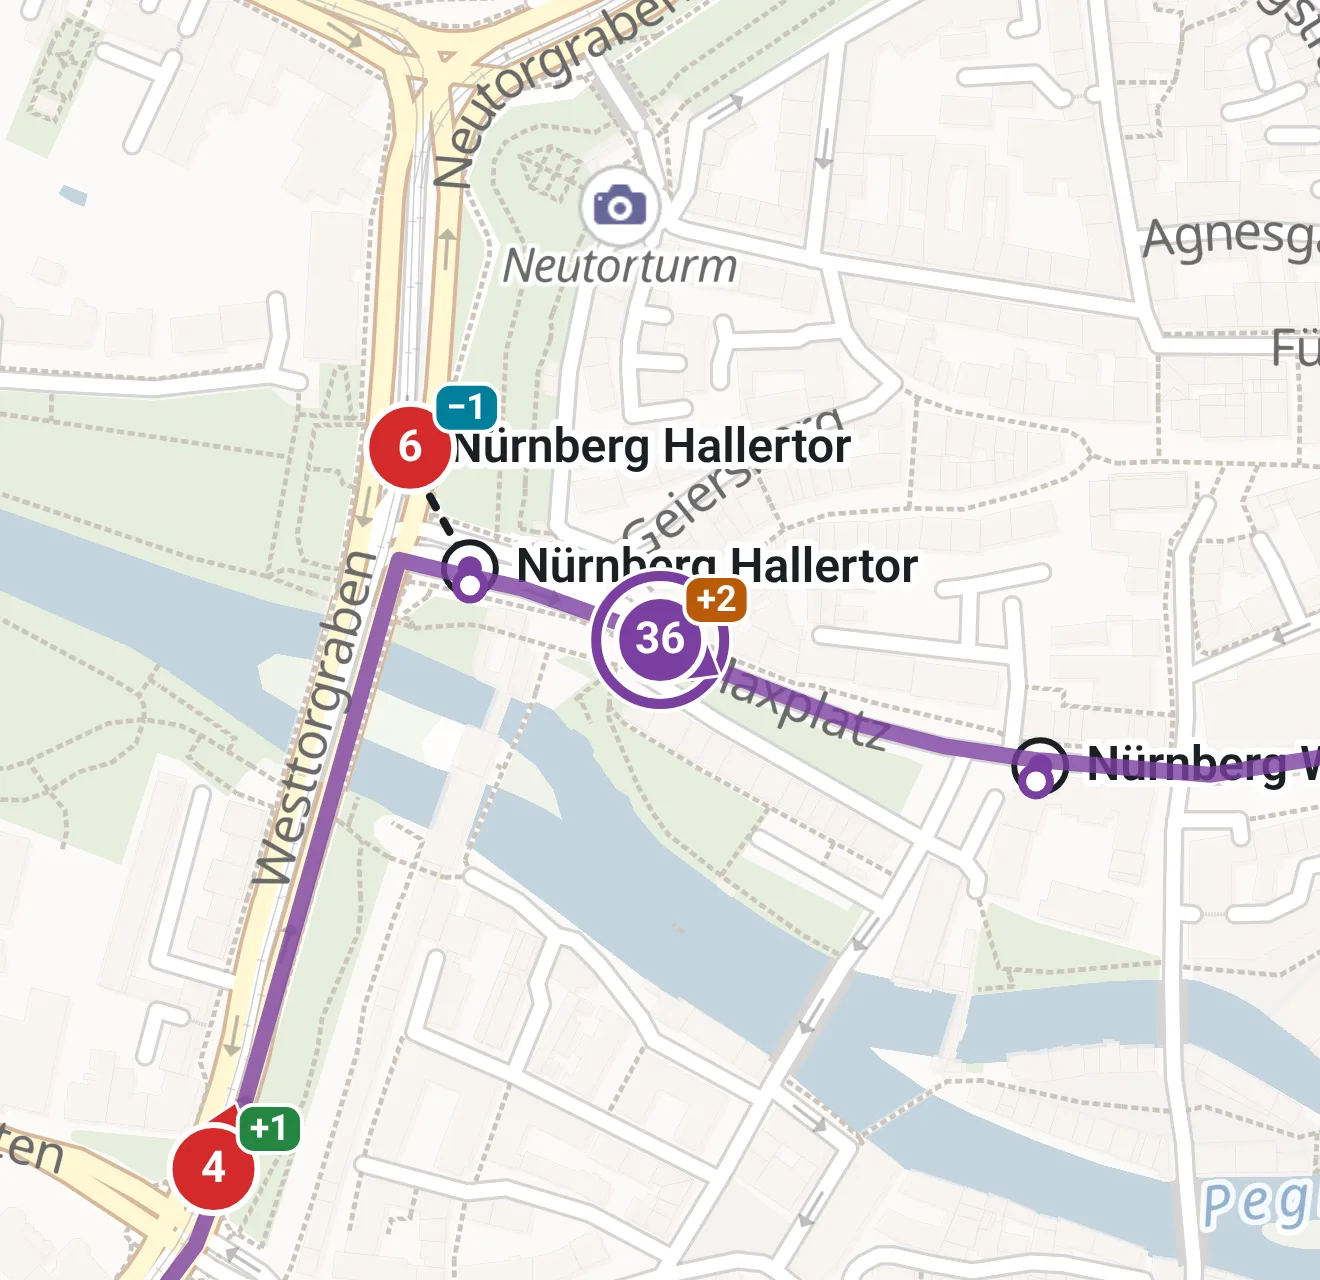
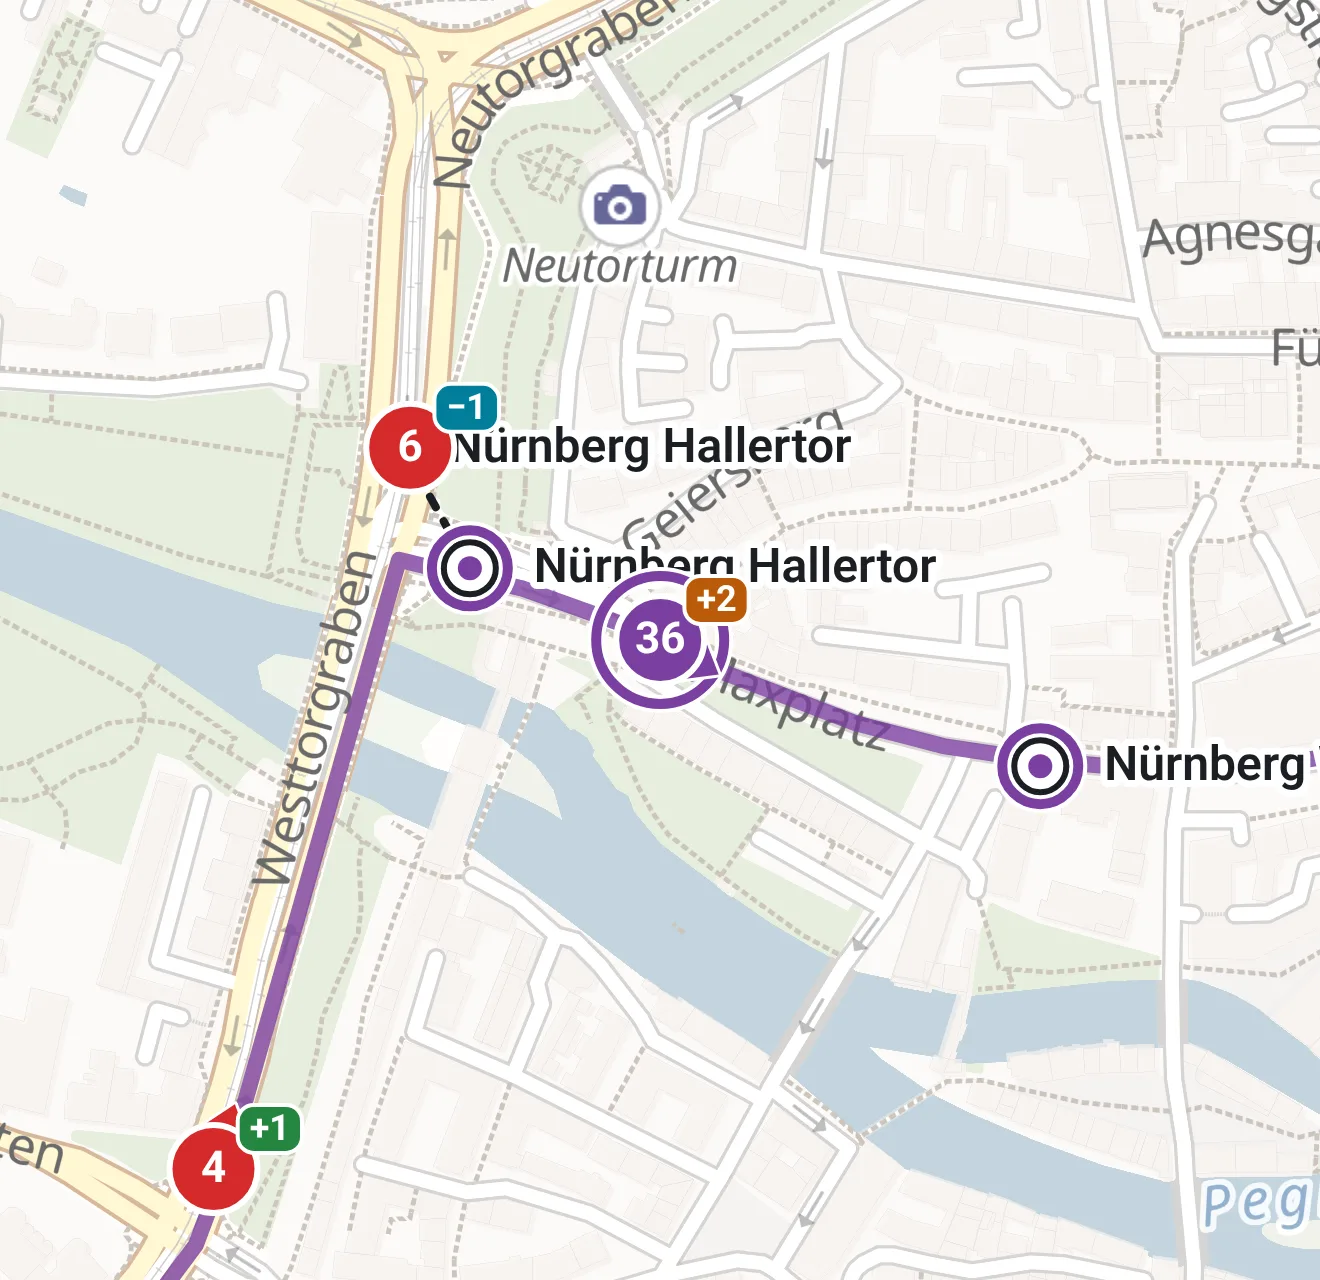
fix(page): the stops of a selected trip or line are the map's own marks, in a ring of its colour (#267)
The dots of a selected trip stood at its platforms and those of a line at
the points of its stations, while the map's mark of a station stands at
its point, and from zoom 15 at the middle of its platforms of a kind: a
median 21 m from the platform of a bus trip. So a stop was a dot beside
its mark, and where the two met, the dot covered the mark, as the route
was drawn after the stops and over their names.

The route now lies under the stops and their names. Each mark of a
station it calls at, the place of its mode, has a ring in the colour of
the mode (a heart its heart's ring); where the map shows no mark of the
station, a dot where the route stops, as before. A station the route
passes without stopping keeps its mark as it is. The README pictures are
taken again: they show the trip of a bus.

Changed region(s): [[0.3106, 0.4062, 0.7144, 0.5], [0.7455, 0.5625, 1.0, 0.6562]]

diff --git a/public/app.js b/public/app.js
@@ -90,6 +90,9 @@ const PLACE_R = 5; // the dot that marks such a place, under the bubble with the
 const RING_GAP = 5;
 const RING_WIDTH = 2.5;
 const RING_EDGE = 1;
+// The ring of a stop of the selected trip or line (routeRing): closer to its mark than that of an open stop. And the zoom from which its stops are shown.
+const ROUTE_RING_GAP = 3;
+const ROUTE_STOPS_ZOOM = 11;
 // The details as a sheet on a narrow screen: the share of the screen it takes
 // at its middle height (as .panel in style.css), how far a finger has to
 // move to drag and not to tap, how far below its lowest height the sheet
@@ -956,6 +959,54 @@ function stationShown(station, zoom) {
   return false;
 }
 
+/**
+ * The route the map draws for what is selected (#148): of a trip, its path
+ * and its stops at their platforms; of a line, the paths of its trips of the
+ * day and the stations they call at. Each stop has a key by which the
+ * stations of the map are told to be one of them (`calls`, `keyOf`): the id
+ * of its station, or for a line, whose route has the places of its stations
+ * alone, that place, as api/stations has it too. Null where nothing with a
+ * route is selected.
+ * @param selection state.selection
+ * @returns { paths, mode, stops: [{ lat, lon, key }], keyOf, calls } or null
+ */
+function routeShown(selection) {
+  let route = null;
+  if (selection?.type === 'trip' && selection.data) {
+    const { path, stops, mode } = selection.data;
+    route = { paths: [path], mode, stops: stops.map(({ lat, lon, station }) => ({ lat, lon, key: station })), keyOf: (station) => station.id };
+  } else if (selection?.type === 'line' && selection.route) {
+    const { paths, stations } = selection.route;
+    const keyOf = (station) => `${station.lat},${station.lon}`;
+    const stops = [];
+    for (let i = 0; i < stations.length; i += 2) stops.push({ lat: stations[i], lon: stations[i + 1], key: keyOf({ lat: stations[i], lon: stations[i + 1] }) });
+    route = { paths, mode: selection.line.mode, stops, keyOf };
+  }
+  if (!route) return null;
+  const keys = new Set(route.stops.map((stop) => stop.key));
+  return { ...route, calls: (station) => keys.has(route.keyOf(station)) };
+}
+
+/**
+ * The ring of the mark of a stop of the selected route: in the colour of its
+ * mode, ROUTE_RING_GAP out from the pill and with white edges, as the ring of
+ * an open stop has them; round a heart, the heart's own ring.
+ */
+function routeRing(mark, mode, big) {
+  if (mark.favourite) {
+    heartRing(mark.x, mark.y, [mode], big);
+    return;
+  }
+  const pill = stopMark(mark.kinds.length, big);
+  roundedBox(mark.x - pill.w / 2 - ROUTE_RING_GAP, mark.y - pill.h / 2 - ROUTE_RING_GAP, pill.w + 2 * ROUTE_RING_GAP, pill.h + 2 * ROUTE_RING_GAP, pill.corner + ROUTE_RING_GAP);
+  ctx.strokeStyle = '#fff';
+  ctx.lineWidth = RING_WIDTH + 2 * RING_EDGE;
+  ctx.stroke();
+  ctx.strokeStyle = colors.mode[mode] ?? colors.mode.other;
+  ctx.lineWidth = RING_WIDTH;
+  ctx.stroke();
+}
+
 function draw() {
   const time = now();
   // The time the markers glide by (ease, below). Where vehicles have just
@@ -1021,6 +1072,35 @@ function draw() {
   // (#245). Below ALL_STATIONS_ZOOM, where the map has no stops of its own,
   // it lies above the vehicles, which would hide it there (`lifted`, drawn
   // after them); from there with the other stops, under them.
+  // The route of the selected trip, or that of the selected line: where its
+  // trips of the day run (#148). Lines in the colour of the mode, one stroke
+  // for all, so that where they lie on each other they are no darker; under
+  // the stops and their names. Its stops are the marks of the stations it
+  // calls at, from zoom 11, each in a ring of its colour (routeRing): one
+  // mark for a stop, where a dot of its own would stand beside the mark –
+  // the platform of a trip is not where the mark of its station is, between
+  // its platforms – or on it. Where the map has no mark of the station, a dot
+  // where the route stops; a station it passes keeps its mark as it is.
+  const route = routeShown(selection);
+  if (route) {
+    ctx.beginPath();
+    for (const path of route.paths) {
+      for (let i = 0; i < path.length; i += 2) {
+        const [x, y] = project(path[i], path[i + 1]);
+        if (i) ctx.lineTo(x, y);
+        else ctx.moveTo(x, y);
+      }
+    }
+    ctx.lineJoin = 'round';
+    ctx.lineCap = 'round';
+    ctx.strokeStyle = colors.mode[route.mode] ?? colors.mode.other;
+    ctx.globalAlpha = 0.8;
+    ctx.lineWidth = 4;
+    ctx.stroke();
+    ctx.globalAlpha = 1;
+  }
+  const routeStops = route !== null && zoom >= ROUTE_STOPS_ZOOM;
+
   const big = zoom >= 15;
   const above = zoom < ALL_STATIONS_ZOOM;
   const shownFavourites = FIXED ? [] : favourites.stops; // (a screen on a wall shows what its address says)
@@ -1036,14 +1116,36 @@ function draw() {
     if (!parts.some(({ x, y }) => onScreen(x, y))) continue;
     drawn.add(station.id);
     for (const [a, b] of joiningLines(parts)) joins.push([parts[a], parts[b]]);
+    // (of a station the route calls at, the mark of the place of its mode: those of its other modes stay as they are)
+    const calledAt = routeStops && route.calls(station);
     for (const part of parts) {
       const hit = { x: part.x, y: part.y, r: STOP_HIT_PX, station };
       hits.push(hit);
-      marks.push({ x: part.x, y: part.y, kinds: part.modes, id: station.id, name: station.name, modes: station.modes, favourite, hit });
+      const ringed = calledAt && part.modes.includes(route.mode);
+      marks.push({ x: part.x, y: part.y, kinds: part.modes, id: station.id, name: station.name, modes: station.modes, favourite, hit, ...(ringed ? { ringed, key: route.keyOf(station), space: ROUTE_RING_GAP + RING_WIDTH + 4 } : {}) });
+    }
+  }
+  // (the dots where the route stops, of the stations whose mark is not on the map: under the marks of others)
+  if (routeStops) {
+    const marked = new Set(marks.filter((mark) => mark.ringed).map((mark) => mark.key));
+    ctx.lineWidth = 2;
+    ctx.strokeStyle = colors.mode[route.mode] ?? colors.mode.other;
+    for (const stop of route.stops) {
+      if (marked.has(stop.key)) continue;
+      const [x, y] = project(stop.lat, stop.lon);
+      if (!onScreen(x, y)) continue;
+      ctx.beginPath();
+      ctx.arc(x, y, 3.5, 0, 2 * Math.PI);
+      ctx.fillStyle = colors.bg;
+      ctx.fill();
+      ctx.stroke();
     }
   }
   drawJoins(joins);
-  for (const mark of marks) Object.assign(mark, (mark.favourite ? drawHeartStop : drawStop)(mark.x, mark.y, mark.kinds, big));
+  for (const mark of marks) {
+    if (mark.ringed) routeRing(mark, route.mode, big);
+    Object.assign(mark, (mark.favourite ? drawHeartStop : drawStop)(mark.x, mark.y, mark.kinds, big));
+  }
   // The station whose departures are open, at any zoom, and the further stops
   // of its board: on top of the others, each of their marks in a ring in the
   // colours of its kinds (kindsRing), as the chosen vehicle has one in its
@@ -1135,42 +1237,6 @@ function draw() {
       else for (const other of marks) if (other.id === mark.id && Math.abs(other.x - mark.x) < 4 && Math.abs(other.y - mark.y) < 4) other.hit.named = true;
     }
   }
-
-  // The route of the selected trip, or that of the selected line: where its
-  // trips of the day run (#148). Lines in the colour of the mode, one stroke
-  // for all, so that where they lie on each other they are no darker; from
-  // zoom 11 a dot at each stop.
-  const drawRoute = (paths, stops, mode) => {
-    ctx.beginPath();
-    for (const path of paths) {
-      for (let i = 0; i < path.length; i += 2) {
-        const [x, y] = project(path[i], path[i + 1]);
-        if (i) ctx.lineTo(x, y);
-        else ctx.moveTo(x, y);
-      }
-    }
-    ctx.lineJoin = 'round';
-    ctx.lineCap = 'round';
-    ctx.strokeStyle = colors.mode[mode] ?? colors.mode.other;
-    ctx.globalAlpha = 0.8;
-    ctx.lineWidth = 4;
-    ctx.stroke();
-    ctx.globalAlpha = 1;
-    if (zoom >= 11) {
-      ctx.lineWidth = 2;
-      for (let i = 0; i < stops.length; i += 2) {
-        const [x, y] = project(stops[i], stops[i + 1]);
-        if (!onScreen(x, y)) continue;
-        ctx.beginPath();
-        ctx.arc(x, y, 3.5, 0, 2 * Math.PI);
-        ctx.fillStyle = colors.bg;
-        ctx.fill();
-        ctx.stroke();
-      }
-    }
-  };
-  if (selection?.type === 'trip' && selection.data) drawRoute([selection.data.path], selection.data.stops.flatMap((stop) => [stop.lat, stop.lon]), selection.data.mode);
-  if (selection?.type === 'line' && selection.route) drawRoute(selection.route.paths, selection.route.stations, selection.line.mode);
 
   // While a line is looked at, its vehicles are the only ones, whatever the filters say.
   const only = selection?.type === 'line' ? selection.ids : null;

diff --git a/docs/architecture.md b/docs/architecture.md
@@ -610,12 +610,19 @@ otherwise a server would load a file written by older code:
 
 - **Map.** MapLibre GL JS draws the map with WebGL, from the vector tiles of
   the configured style or from raster tiles. Everything else is drawn by
-  `app.js` on one canvas lying on top: the veil outside the area, stations,
-  the route of the selected trip or line, the visitor's own position,
+  `app.js` on one canvas lying on top: the veil outside the area, the route
+  of the selected trip or line, stations, the visitor's own position,
   vehicles. The route of a line is where its trips of the day run, each
   stretch between two stops once
   ([#148](https://github.com/xiidoz/netnou/issues/148)): the page asks for it
   once, when it opens the line, and shows it as far as it lies in the area.
+  A route lies under the stops and their names, and its stops are the marks
+  of the stations it calls at, each in a ring of the colour of its mode: the
+  platform where a trip stops is not where the mark of its station is, the
+  middle of its platforms, a median 21 m away at a bus stop, and a dot of
+  its own would stand beside the mark or cover it. Where the map has no
+  mark of a station, as zoomed out, a dot shows where the route stops; a
+  station it passes keeps its mark as it is.
   The map is never rotated or tilted.
 - **Polling.** Every 10 seconds the page asks for the vehicles in the visible
   section plus a margin, in full detail from zoom level 12 and in a reduced
